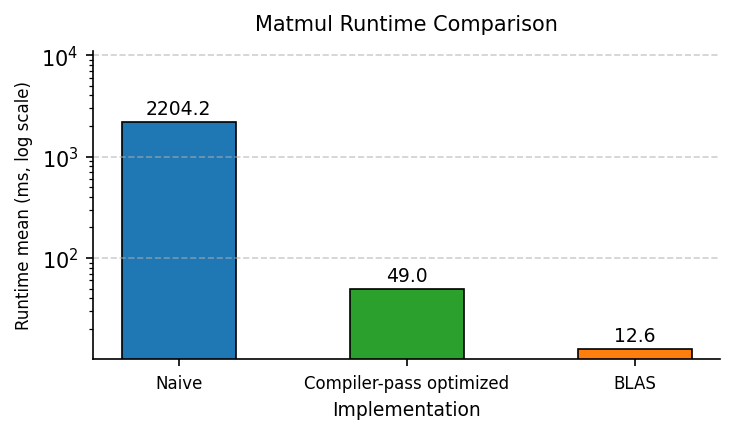
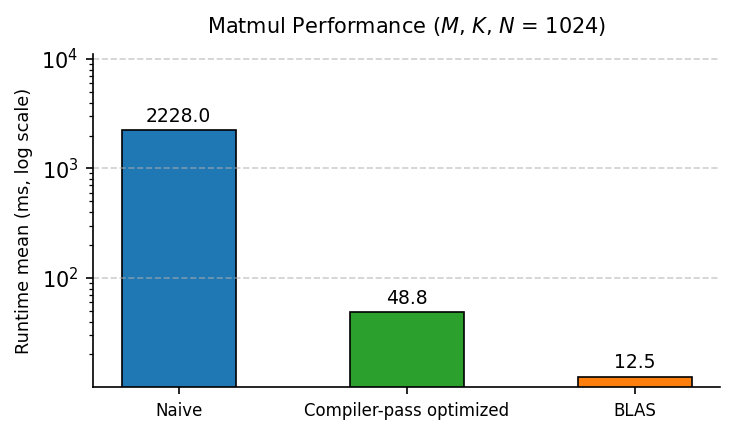
u: update

diff --git a/utils.py b/utils.py
@@ -9,9 +9,9 @@ def perf_plot(labels, values):
     bars = ax.bar(labels, values, color=colors, width=0.5, edgecolor="black", linewidth=0.8)
     
     ax.set_yscale("log")
-    ax.set_title("Matmul Runtime Comparison", fontsize=10, pad=10)
-    ax.set_ylabel("Runtime mean (ms, log scale)", fontsize=8)
-    ax.set_xlabel("Implementation", fontsize=9)
+    ax.set_title(r"Matmul Performance ($M$, $K$, $N$ = 1024)", fontsize=10, pad=10)
+    ax.set_ylabel("Runtime mean (ms, log scale)", fontsize=8.5)
+    # ax.set_xlabel("Implementation", fontsize=9)
 
     ax.grid(axis="y", linestyle="--", alpha=0.6)
     ax.spines["top"].set_visible(False)

diff --git a/README.md b/README.md
@@ -1,0 +1,5 @@
+# Tensor Reduction Operation Compiler
+
+> An end-to-end compiler providing simple frontend instruction, decent middle-end optimization pass and backend support with JIT compiling.
+
+Check [DEMO](https://github.com/hkyoon94/mm-compiler/blob/main/demo.ipynb) file  for its performance.
